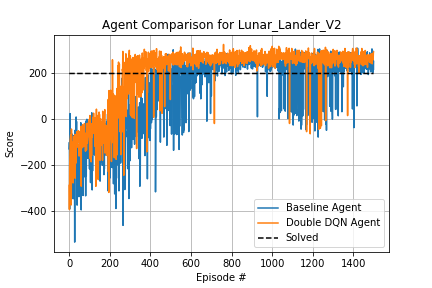
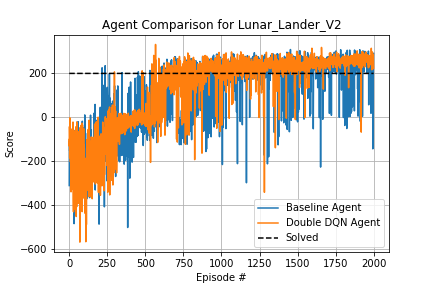
Fixed Double DQN Agent
Reran the simulations to get a new graph. I also refactored dqn_agent.py to use inheritance for the agents.

Changed region(s): [[0.0602, 0.125, 0.9028, 0.9375]]

diff --git a/dqn_agent.py b/dqn_agent.py
@@ -1,13 +1,12 @@
 import numpy as np
 import random
 from collections import namedtuple, deque
-
 from model import QNetwork
-
 import torch
 import torch.nn.functional as F
 import torch.optim as optim
 
+# Hyperparameters for the Agents
 BUFFER_SIZE = int(1e5)  # replay buffer size
 BATCH_SIZE = 64         # minibatch size
 GAMMA = 0.99            # discount factor
@@ -16,6 +15,7 @@ LR = 5e-4               # learning rate
 UPDATE_LOCAL = 4        # how often to update the local network
 UPDATE_TARGET = 50      # how often to update the target network
 
+# Set up to run on GPU or CPU
 device = torch.device("cuda" if torch.cuda.is_available() else "cpu")
 
 
@@ -52,6 +52,7 @@ class Agent():
         # Learn every UPDATE_EVERY time steps.
         self.t_step += 1
         if self.t_step%UPDATE_LOCAL == 0:
+            self.t_step = 0
             # If enough samples are available in memory, get random subset and learn
             if len(self.memory) > BATCH_SIZE:
                 experiences = self.memory.sample()
@@ -117,71 +118,19 @@ class Agent():
             target_param.data.copy_(tau * local_param.data + (1.0 - tau) * target_param.data)
 
 
-class Agent_Double():
-    """Interacts with and learns from the environment."""
+class Agent_Double(Agent):
+    """Double DQN Agent that interacts with and learns from the environment"""
 
     def __init__(self, state_size, action_size, seed):
-        """Initialize an Agent object.
-        
+        """Initialize a Double DQN Agent object using inheritance from Agent.
+
         Params
         ======
             state_size (int): dimension of each state
             action_size (int): dimension of each action
             seed (int): random seed
         """
-        self.state_size = state_size
-        self.action_size = action_size
-        self.seed = random.seed(seed)
-
-        # Q-Network
-        self.qnetwork_local = QNetwork(state_size, action_size, seed).to(device)
-        self.qnetwork_target = QNetwork(state_size, action_size, seed).to(device)
-        self.optimizer = optim.Adam(self.qnetwork_local.parameters(), lr=LR)
-
-        # Replay memory
-        self.memory = ReplayBuffer(action_size, BUFFER_SIZE, BATCH_SIZE, seed)
-        # Initialize time step (for updating every UPDATE_EVERY steps)
-        self.t_step = 0
-
-    def step(self, state, action, reward, next_state, done):
-        # Save experience in replay memory
-        self.memory.add(state, action, reward, next_state, done)
-        
-        # Learn every UPDATE_EVERY time steps.
-        self.t_step += 1
-        if self.t_step%UPDATE_LOCAL == 0:
-            # If enough samples are available in memory, get random subset and learn
-            if len(self.memory) > BATCH_SIZE:
-                experiences = self.memory.sample()
-                self.learn(experiences, GAMMA)
-                # update target network
-                self.soft_update(self.qnetwork_local, self.qnetwork_target, TAU)
-
-        '''                 Hard update option (test later)
-        if self.t_step%UPDATE_TARGET == 0:
-            self.hard_update(self.qnetwork_local,self.qnetwork_target)
-        '''
-
-    def act(self, state, eps=0.):
-        """Returns action for given state as per current policy.
-        
-        Params
-        ======
-            state (array_like): current state
-            eps (float): epsilon, for epsilon-greedy action selection
-        """
-        state = torch.from_numpy(state).float().unsqueeze(0).to(device)
-        # Turn off training and gradient calculations and just get the action_values
-        self.qnetwork_local.eval()
-        with torch.no_grad():
-            action_values = self.qnetwork_local(state)
-        self.qnetwork_local.train() # Turning back on training for the future
-
-        # Epsilon-greedy action selection
-        if random.random() > eps:
-            return np.argmax(action_values.cpu().data.numpy())
-        else:
-            return random.choice(np.arange(self.action_size))
+        super().__init__(state_size, action_size, seed)
 
     def learn(self, experiences, gamma):
         """Update value parameters using given batch of experience tuples. (Double DQN)
@@ -193,7 +142,7 @@ class Agent_Double():
         """
         states, actions, rewards, next_states, dones = experiences
 
-        #           Double DQN Update (Different)          #
+        #           Double DQN Update                      #
         # Find max actions for next states based on the local_network
         local_argmax_actions = self.qnetwork_local(next_states).detach().argmax(dim=1).unsqueeze(1)
         # Use local_best_actions and target_network to get predicted value for next states
@@ -211,31 +160,6 @@ class Agent_Double():
         self.optimizer.zero_grad()
         loss.backward()
         self.optimizer.step()
-
-    def soft_update(self, local_model, target_model, tau):
-        """Soft update model parameters.
-        θ_target = τ*θ_local + (1 - τ)*θ_target
-        target network moves in the direction of local network by TAU amount
-
-        Params
-        ======
-            local_model (PyTorch model): weights will be copied from
-            target_model (PyTorch model): weights will be copied to
-            tau (float): interpolation parameter 
-        """
-        for target_param, local_param in zip(target_model.parameters(), local_model.parameters()):
-            target_param.data.copy_(tau*local_param.data + (1.0-tau)*target_param.data)
-
-    def hard_update(self, local_model, target_model):
-        """Copies parameters from local_model to target_model
-
-        Params
-        ======
-            local_model (PyTorch model): weights will be copied from
-            target_model (PyTorch model): weights will be copied to
-        """
-        for target_param, local_param in zip(target_model.parameters(), local_model.parameters()):
-            target_param.data.copy_(local_param)
 
 
 class ReplayBuffer:

diff --git a/README.md b/README.md
@@ -16,7 +16,9 @@ This agent is the same as the baseline agent in every way except Agent.learn now
 <p align="center">
     <img src="/images/Model_Comparison.png">
 </p>
+
 ### Baseline + Prioritized Experience Replay
+This agent is the same as the baseline agent with [prioritized experience replay](https://arxiv.org/pdf/1511.05952.pdf) added.
 
 ### Baseline + Dueling DQN
 
